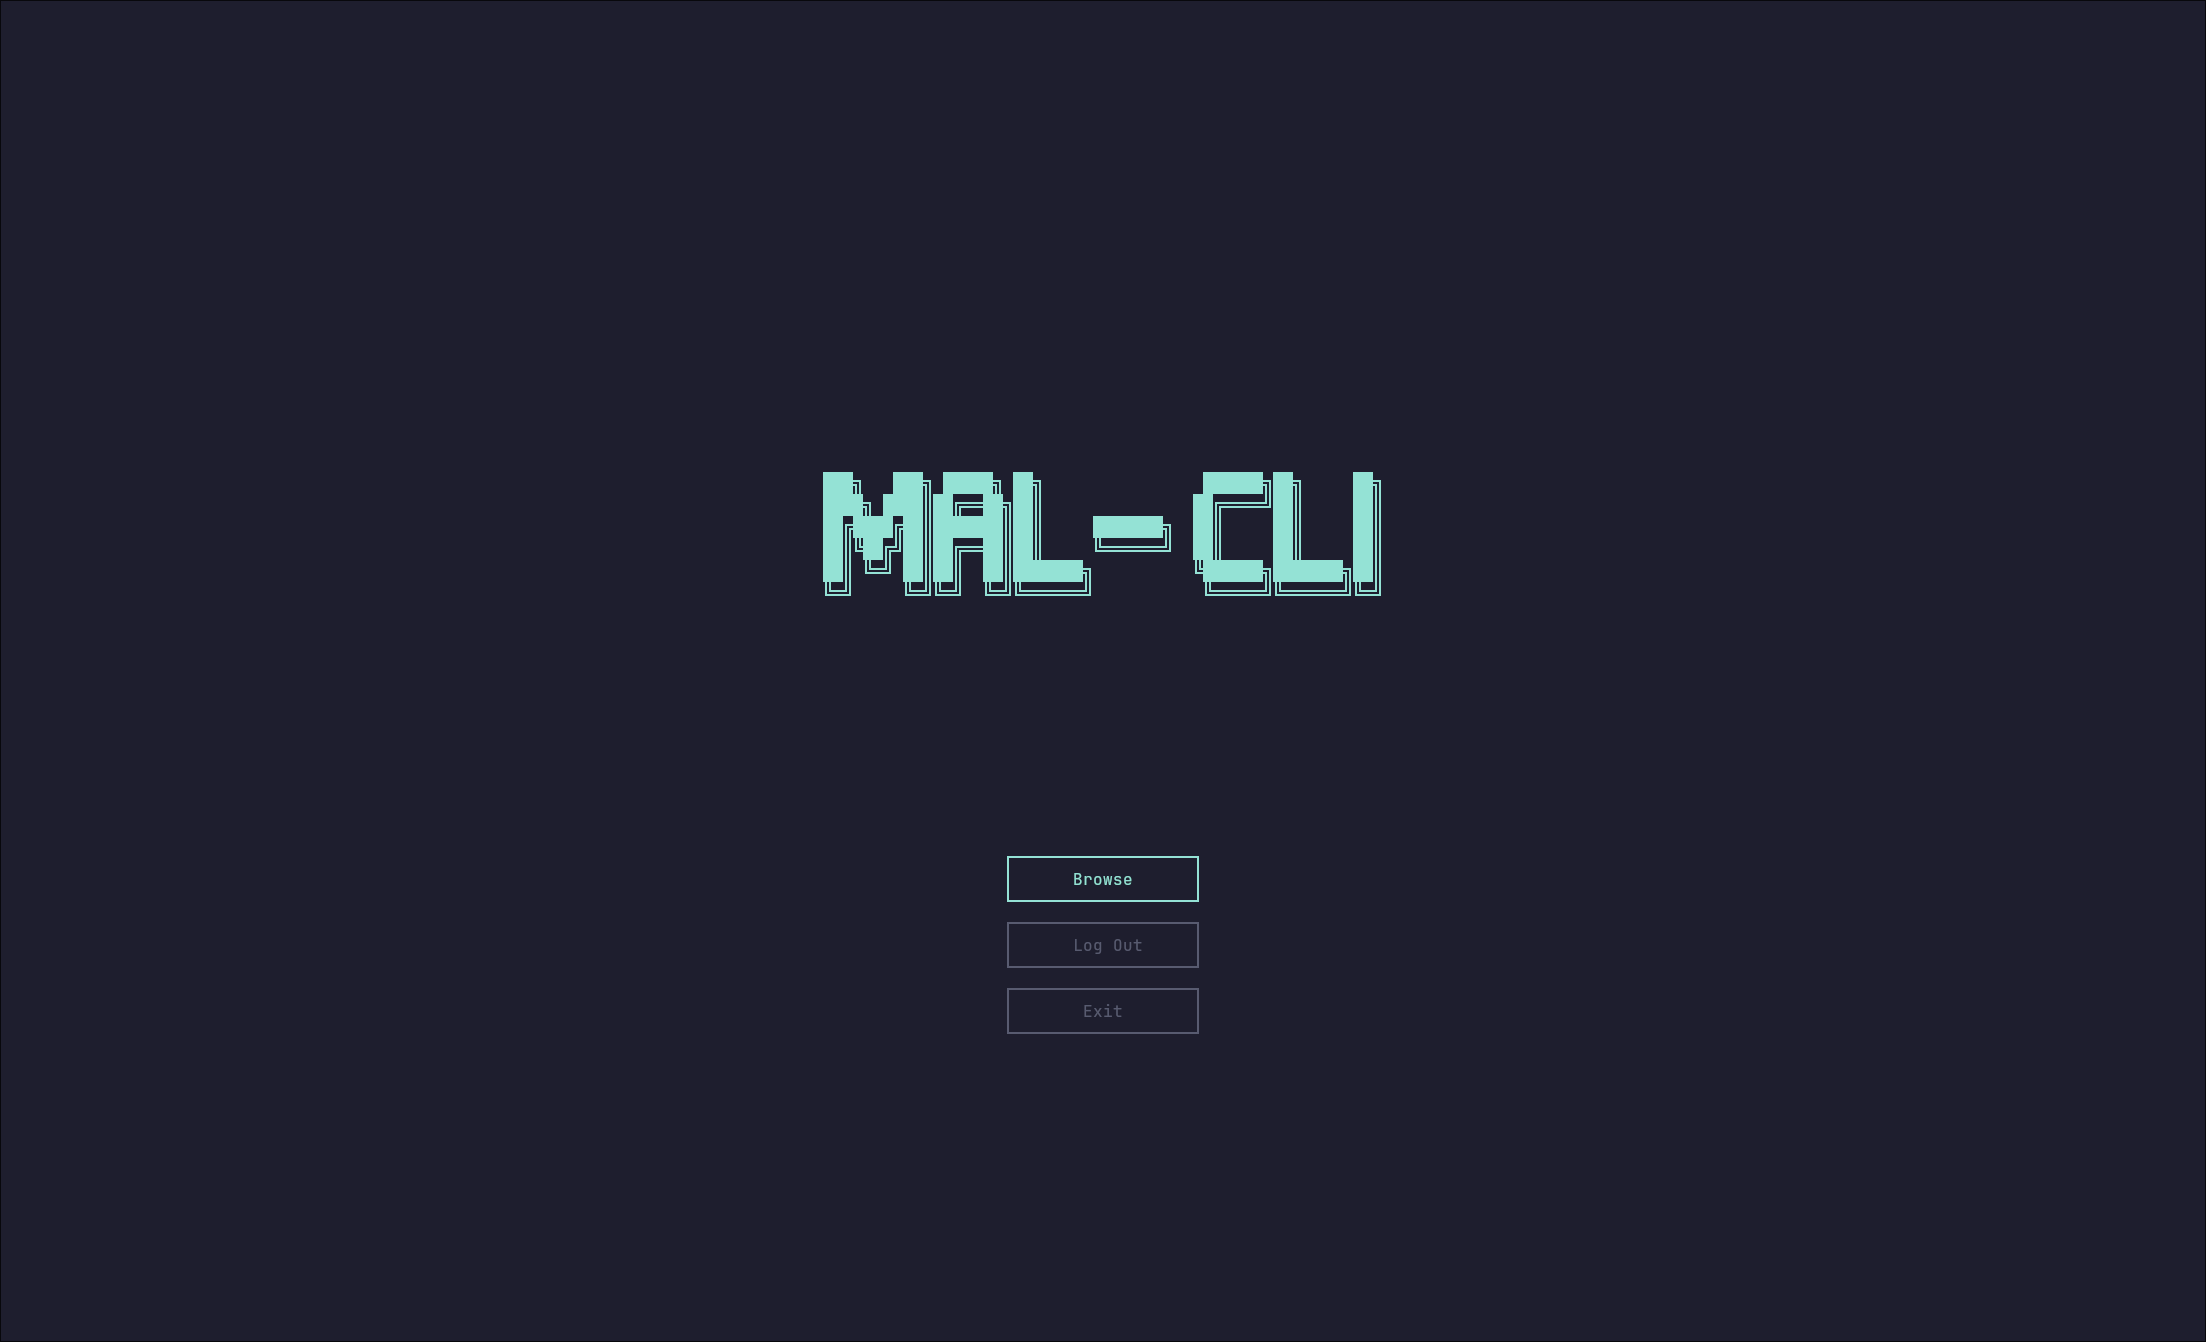
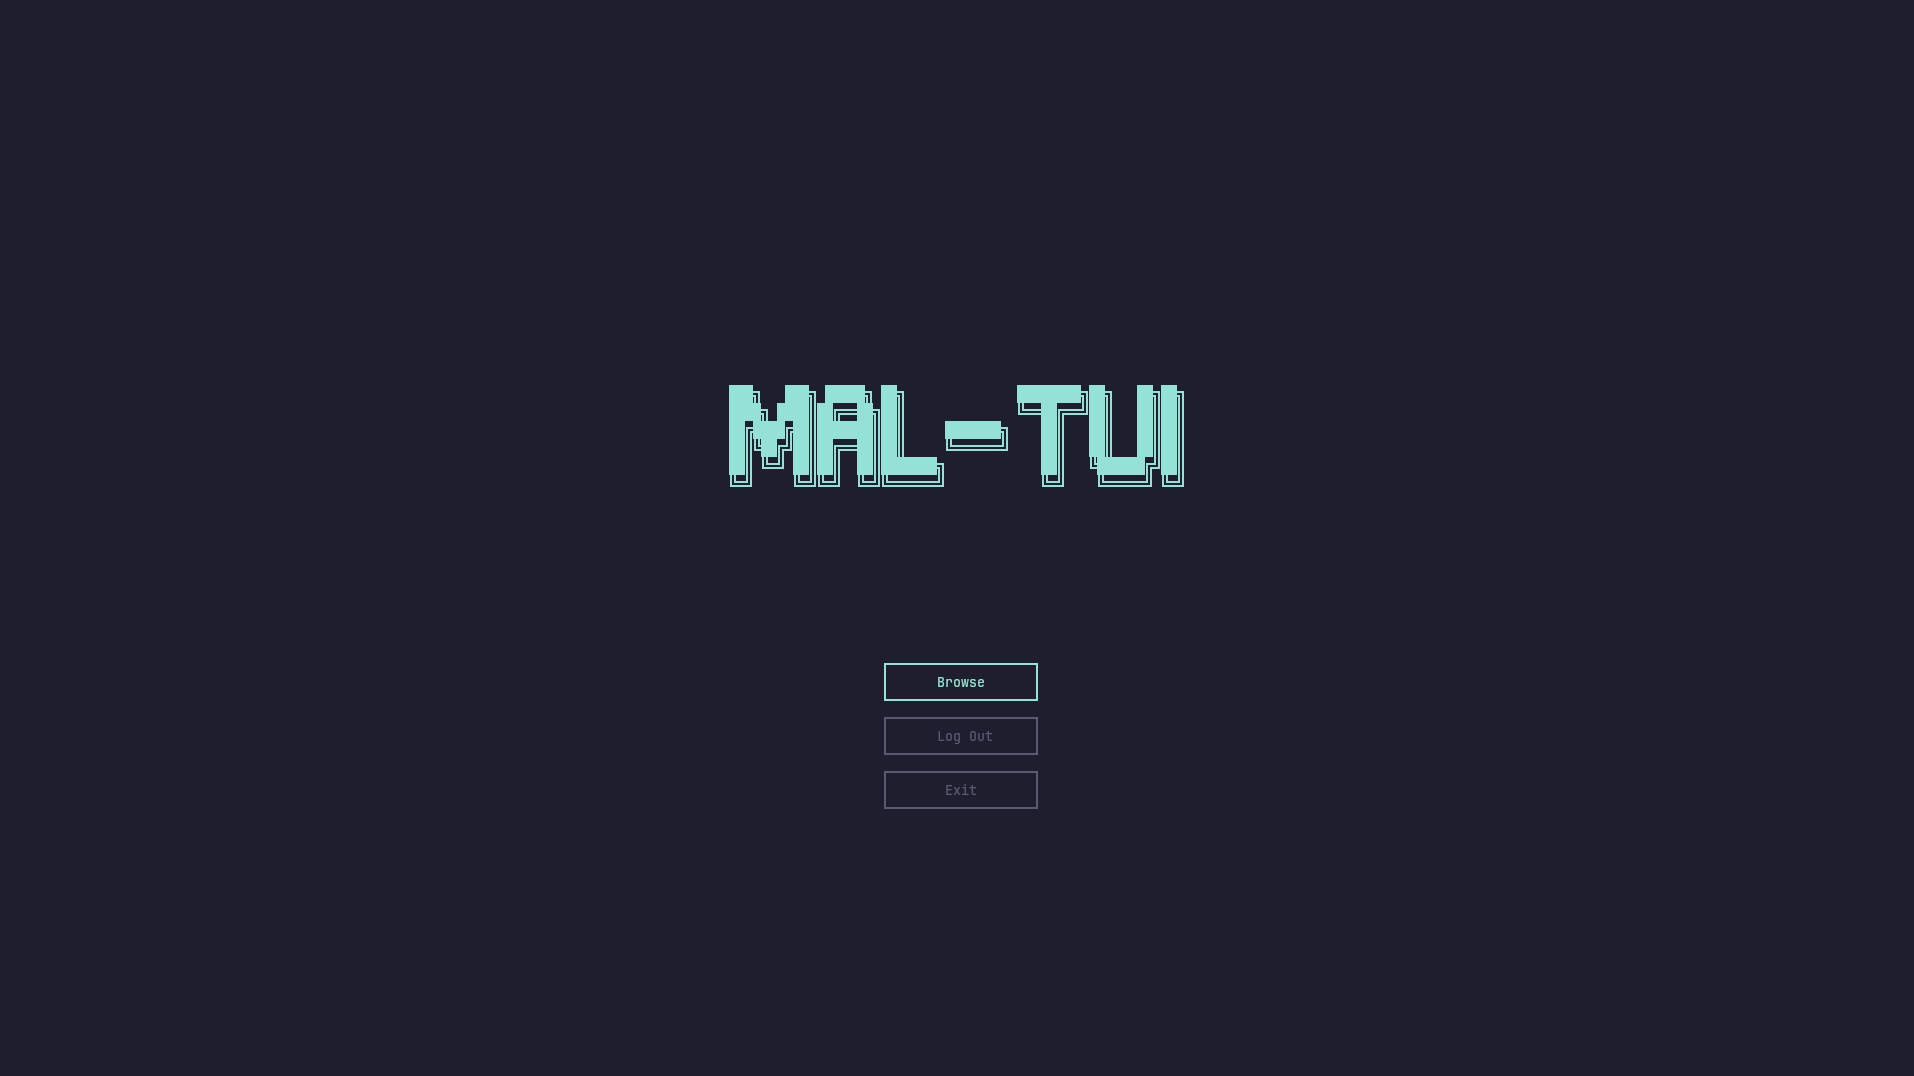
copy old folder

Changed region(s): [[0.3699, 0.3374, 0.6473, 0.46], [0.4624, 0.6134, 0.5549, 0.7667]]

diff --git a/src/config/mod.rs b/src/config/mod.rs
@@ -72,6 +72,28 @@ impl Config {
             .expect("Failed to get app directory")
     }
 
+    pub fn migrate_from_mal_cli() {
+        let old = std::env::var("HOME")
+            .map(|home| PathBuf::from(home).join(".local/share/mal-cli"))
+            .unwrap_or_default();
+        let new = Self::data_dir();
+
+        if old.exists() && !new.exists() {
+            let _ = std::fs::create_dir_all(&new);
+            for entry in [".mal", "watch_history"] {
+                let src = old.join(entry);
+                if src.exists() {
+                    let dst = new.join(entry);
+                    if src.is_dir() {
+                        let _ = copy_dir(&src, &dst);
+                    } else {
+                        let _ = std::fs::copy(&src, &dst);
+                    }
+                }
+            }
+        }
+    }
+
 
     // used to update the config file with new configs
     pub fn save_to_file(config: &Config) {
@@ -148,4 +170,18 @@ impl Config {
 
         config
     }
+}
+
+fn copy_dir(src: &PathBuf, dst: &PathBuf) -> std::io::Result<()> {
+    std::fs::create_dir_all(dst)?;
+    for entry in std::fs::read_dir(src)? {
+        let entry = entry?;
+        let dst_path = dst.join(entry.file_name());
+        if entry.file_type()?.is_dir() {
+            copy_dir(&entry.path(), &dst_path)?;
+        } else {
+            std::fs::copy(entry.path(), dst_path)?;
+        }
+    }
+    Ok(())
 }

diff --git a/src/main.rs b/src/main.rs
@@ -47,6 +47,7 @@ fn parse_cli() -> bool {
 #[tokio::main]
 async fn main() -> Result<()> {
 
+
     let run_command = parse_cli();
     if run_command {
         return Ok(());
@@ -54,6 +55,7 @@ async fn main() -> Result<()> {
 
     // grab picker before anything else
     let _ = utils::terminalCapabilities::get_picker();
+    Config::migrate_from_mal_cli();
     let terminal = ratatui::init();
     let config = Config::init();
     let _ = std::fs::create_dir_all(Config::data_dir()).is_ok();
@@ -76,8 +78,3 @@ async fn main() -> Result<()> {
 
     Ok(())
 }
-
-
-
-//TODO: make sure the install scripts move mal-cli to mal-tui if it exists? or rather we move
-//specific content inside mal-cli to mal-tui to avoiod other mal-cli configs to get lost?